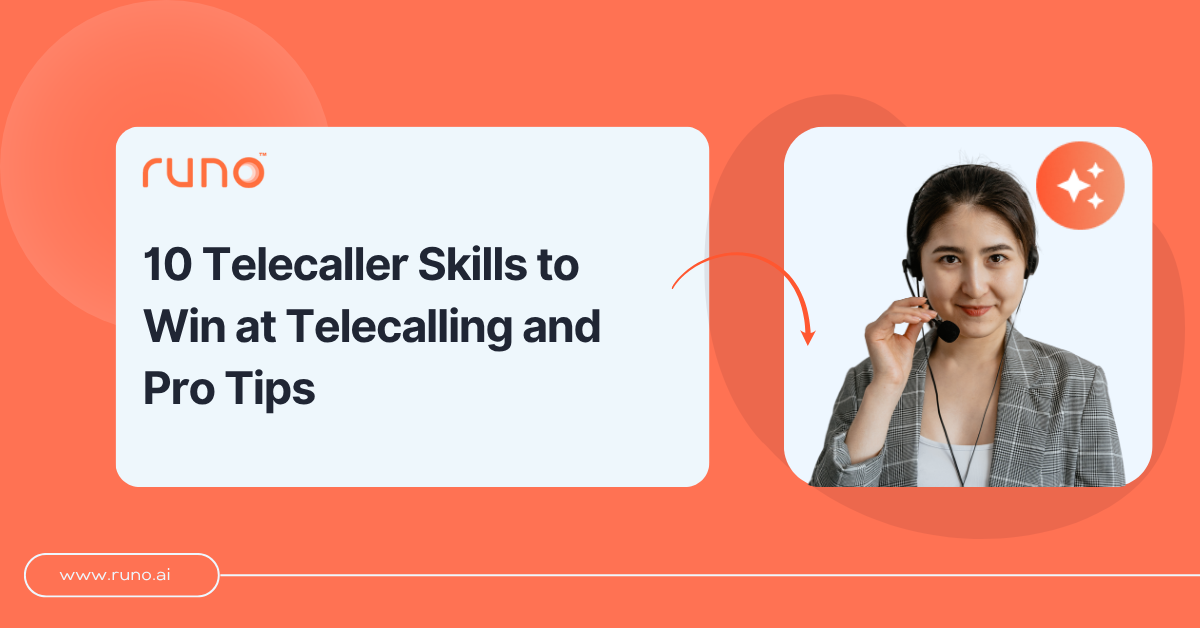
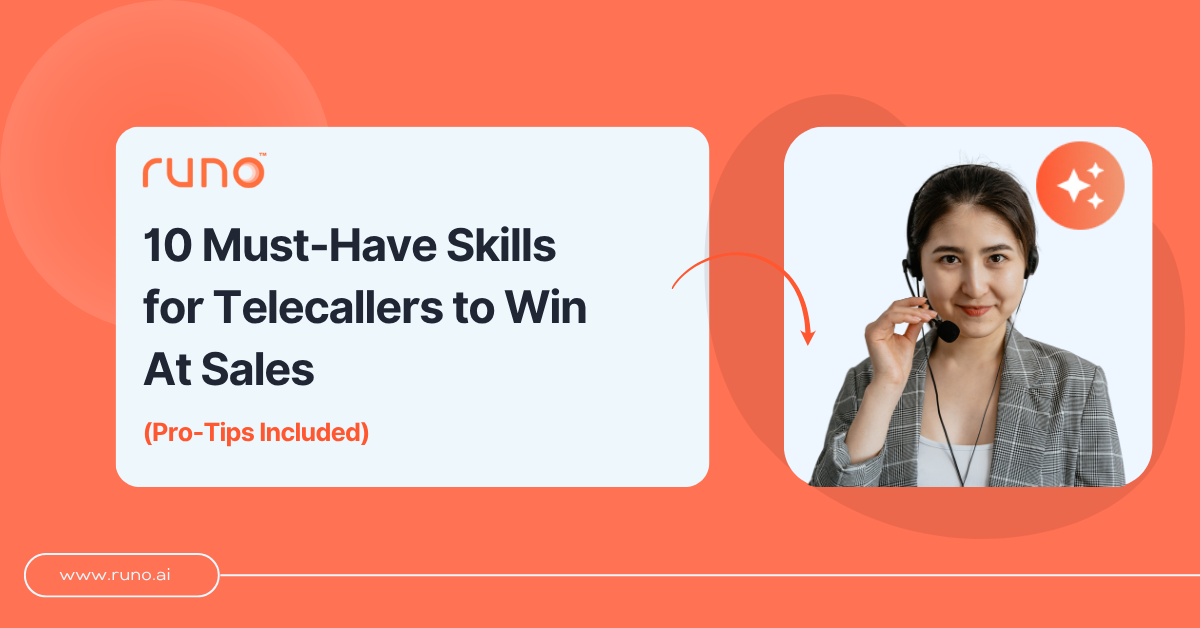
changes

Changed region(s): [[0.1233, 0.3631, 0.5242, 0.7261]]

diff --git a/blog/index.html b/blog/index.html
@@ -489,11 +489,11 @@
                <div class="col">
                   <div class="card blog-card h-100">
                      <div class="card-head">
-                        <a class="blog-link"  href="telecaller-skills"><img src="blogs/3/telecaller.png" alt="10 Telecaller Skills to Win at Telecalling and Pro Tips" /></a>
+                        <a class="blog-link"  href="telecaller-skills"><img src="blogs/3/telecaller.png" alt="10 Must-Have Skills for Telecallers to Win At Sales" /></a>
                      </div>
                      <div class="card-body">
                         <a class="blog-link"  href="telecaller-skills">
-                           <h5 class="card-title">10 Telecaller Skills to Win at Telecalling and Pro Tips</h5>
+                           <h5 class="card-title">10 Must-Have Skills for Telecallers to Win At Sales</h5>
                         </a>
                         <p class="card-text blog-desc">
    Want to ace your telecalling or telemarketing job? Learn 10 must-have telecaller skills with pro tips that actually work in real-world calls.

diff --git a/blog/best-call-center-crm-software.html b/blog/best-call-center-crm-software.html
@@ -1309,7 +1309,7 @@
       <a href="https://runo.ai/blog/top-telecaller-app-features-and-tool" target="_blank">Top Telecaller App Features & Tool You Need in 2025</a>
     </li>
     <li>
-      <a href="https://runo.ai/blog/telecaller-skills" target="_blank">10 Telecaller Skills to Win at Telecalling and Pro Tips</a>
+      <a href="https://runo.ai/blog/telecaller-skills" target="_blank">10 Must-Have Skills for Telecallers to Win At Sales</a>
     </li>
   </ul>
 </div>

diff --git a/blog/top-telecaller-app-features-and-tool.html b/blog/top-telecaller-app-features-and-tool.html
@@ -866,7 +866,7 @@
     </li>
   
     <li>
-      <a href="https://runo.ai/blog/telecaller-skills" target="_blank">10 Telecaller Skills to Win at Telecalling and Pro Tips</a>
+      <a href="https://runo.ai/blog/telecaller-skills" target="_blank">10 Must-Have Skills for Telecallers to Win At Sales</a>
     </li>
   </ul>
 </div>
